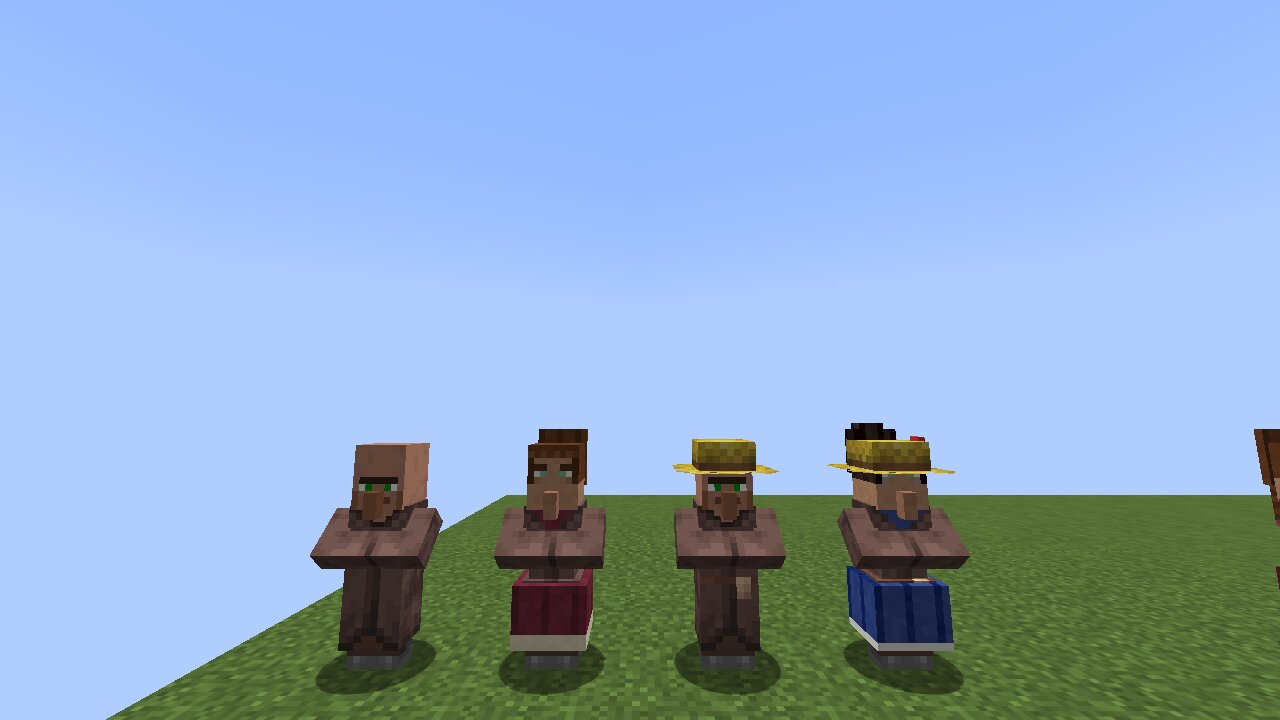
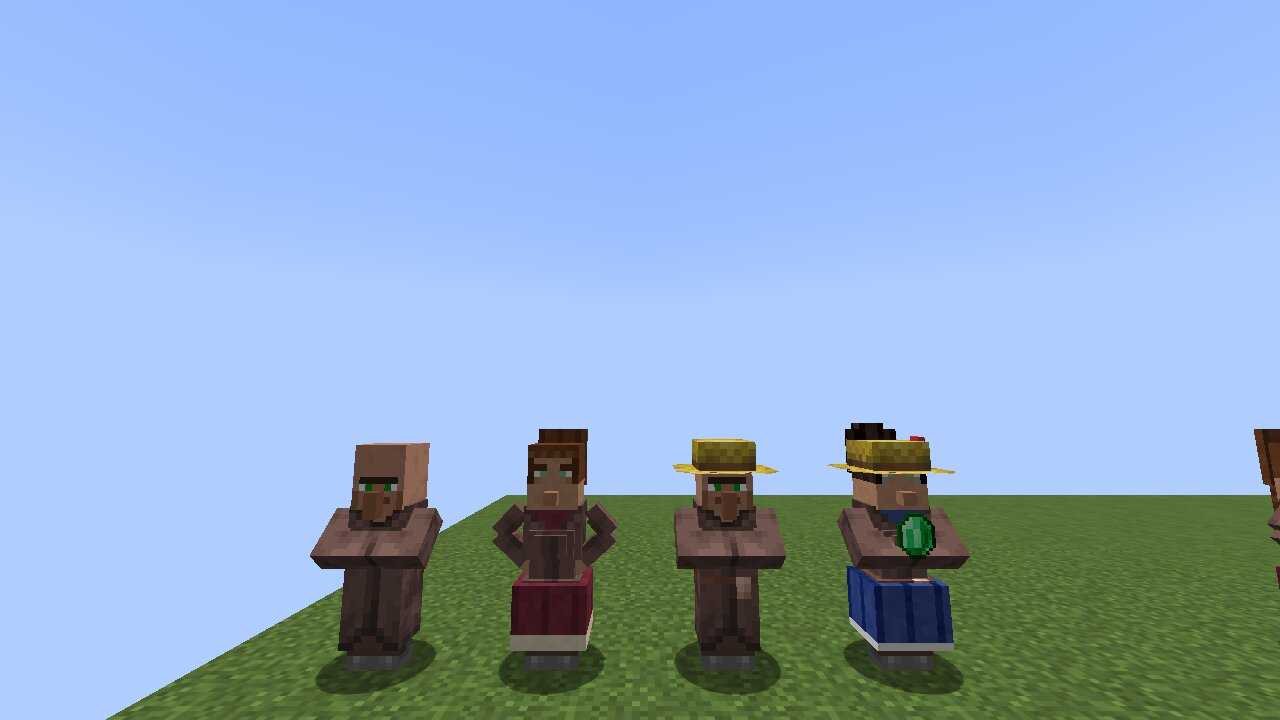
feat: hands on hips, bust and shorter nose for villager women
Adult women put their hands on their hips instead of crossing their
arms, get a two-step bust on the robe front and a 2 px nose instead of
the 4 px one. All new parts reuse the texture rows of the vanilla part
they replace, so base skin, biome and profession clothes keep fitting.
While a woman holds an item she crosses her arms so the item still sits
in them.

Claude-Session: https://claude.ai/code/session_01EiGtYFxobCFbXvBrcDqVrL

Changed region(s): [[0.375, 0.7028, 0.5, 0.7944], [0.6875, 0.7028, 0.75, 0.7944], [0.9688, 0.7028, 1.0, 0.7639]]

diff --git a/src/client/java/net/frank/mc3ver/client/VillagerWomanFigure.java b/src/client/java/net/frank/mc3ver/client/VillagerWomanFigure.java
@@ -8,16 +8,23 @@ import net.minecraft.client.model.geom.builders.PartDefinition;
 import net.minecraft.client.renderer.entity.state.VillagerRenderState;
 
 /**
- * Figur der Bewohnerin im Vanilla-Villagermodell: schmale Taille, darunter setzt der Rock als Hüfte an. Körper und
- * Gewand (jacket) sind gerade Quader; für Bewohnerinnen blendet skipDraw sie aus und die Figur-Teile darunter
- * übernehmen. Die Teile liegen auf denselben Texturzeilen wie Körper und Gewand, damit Grundskin, Biom- und
- * Berufskleidung weiter passen.
+ * Figur der Bewohnerin im Vanilla-Villagermodell. Körper und Gewand (jacket) sind gerade Quader; für erwachsene
+ * Bewohnerinnen blendet skipDraw sie aus und Figur-Teile darunter übernehmen: schmale Taille, Brust, darunter setzt
+ * der Rock aus VillagerWomanModel als Hüfte an. Dazu Hände in die Hüften statt verschränkter Arme und eine kürzere
+ * Nase. Alle Teile liegen auf denselben Texturzeilen wie das Vanilla-Teil, damit Grundskin, Biom- und Berufskleidung
+ * weiter passen.
  */
 public final class VillagerWomanFigure {
 
     static final String FIGURE = "mc3ver_woman_figure";
+    static final String BUST = "mc3ver_woman_bust";
+    static final String HIP_ARMS = "mc3ver_woman_hip_arms";
+    static final String NOSE = "mc3ver_woman_nose";
     private static final String BODY = "body";
     private static final String JACKET = "jacket";
+    private static final String ARMS = "arms";
+    private static final String HEAD = "head";
+    private static final String VANILLA_NOSE = "nose";
 
     private VillagerWomanFigure() {}
 
@@ -35,30 +42,77 @@ public final class VillagerWomanFigure {
                         .texOffs(16, 31)
                         .addBox(-4.0f, 11.0f, -3.0f, 8.0f, 1.0f, 6.0f),
                 PartPose.ZERO);
-        // Gewand: texOffs(0,38), 8x20x6 mit 0.5 Aufschlag. Oben und unten exakt, dazwischen die Taille.
-        // Die Hüfte bildet der Rock aus VillagerWomanModel
-        body.getChild(JACKET)
+        // Gewand: texOffs(0,38), 8x20x6 mit 0.5 Aufschlag. Oben und unten exakt, dazwischen die Taille
+        PartDefinition jacket = body.getChild(JACKET);
+        jacket.addOrReplaceChild(
+                FIGURE,
+                CubeListBuilder.create()
+                        .texOffs(0, 38)
+                        .addBox(-4.0f, 0.0f, -3.0f, 8.0f, 7.0f, 6.0f, new CubeDeformation(0.5f))
+                        .texOffs(2, 46)
+                        .addBox(-3.0f, 7.0f, -2.5f, 6.0f, 4.0f, 5.0f, new CubeDeformation(0.5f))
+                        .texOffs(0, 49)
+                        .addBox(-4.0f, 11.0f, -3.0f, 8.0f, 9.0f, 6.0f, new CubeDeformation(0.5f)),
+                PartPose.ZERO);
+        // Brust: zwei Stufen auf der Gewand-Vorderseite (Zeilen 47..50), damit Berufskleidung mitgeht
+        jacket.addOrReplaceChild(
+                BUST,
+                CubeListBuilder.create()
+                        .texOffs(6, 46)
+                        .addBox(-3.0f, 3.5f, -4.0f, 6.0f, 3.0f, 1.0f, new CubeDeformation(0.5f))
+                        .texOffs(7, 47)
+                        .addBox(-2.0f, 4.0f, -5.0f, 4.0f, 2.0f, 1.0f, new CubeDeformation(0.5f)),
+                PartPose.ZERO);
+        addHipArms(root);
+        // Nase wie VillagerModel (texOffs(24,0), 2x4x2 ab y -3), aber nur 2 Pixel lang: obere Zeilen derselben Textur
+        root.getChild(HEAD)
                 .addOrReplaceChild(
-                        FIGURE,
-                        CubeListBuilder.create()
-                                .texOffs(0, 38)
-                                .addBox(-4.0f, 0.0f, -3.0f, 8.0f, 7.0f, 6.0f, new CubeDeformation(0.5f))
-                                .texOffs(2, 46)
-                                .addBox(-3.0f, 7.0f, -2.5f, 6.0f, 4.0f, 5.0f, new CubeDeformation(0.5f))
-                                .texOffs(0, 49)
-                                .addBox(-4.0f, 11.0f, -3.0f, 8.0f, 9.0f, 6.0f, new CubeDeformation(0.5f)),
-                        PartPose.ZERO);
+                        NOSE,
+                        CubeListBuilder.create().texOffs(24, 0).addBox(-1.0f, -1.0f, -6.0f, 2.0f, 2.0f, 2.0f),
+                        PartPose.offset(0.0f, -2.0f, 0.0f));
     }
 
-    /** Schaltet zwischen geradem Körper und Figur um; jedes setupAnim, weil ein Modell alle Dorfbewohner zeichnet. */
+    // Hände in die Hüften: Oberarm schräg nach außen, Unterarm zurück zur Taille. Ärmel aus dem Arm-Bereich
+    // texOffs(44,22), 3 statt 4 dick; Hände aus der Haut der Kopfseite (Zeilen 14..17)
+    private static void addHipArms(PartDefinition root) {
+        PartDefinition arms = root.addOrReplaceChild(HIP_ARMS, CubeListBuilder.create(), PartPose.ZERO);
+        for (int side : new int[] {1, -1}) {
+            PartDefinition upper = arms.addOrReplaceChild(
+                    side > 0 ? "left" : "right",
+                    CubeListBuilder.create()
+                            .texOffs(44, 22)
+                            .mirror(side < 0)
+                            .addBox(-1.5f, 0.0f, -1.5f, 3.0f, 5.0f, 3.0f),
+                    PartPose.offsetAndRotation(5.5f * side, 0.5f, 0.0f, 0.0f, 0.0f, -0.75f * side));
+            upper.addOrReplaceChild(
+                    "forearm",
+                    CubeListBuilder.create()
+                            .texOffs(44, 22)
+                            .mirror(side < 0)
+                            .addBox(-1.5f, 0.0f, -1.5f, 3.0f, 6.0f, 3.0f)
+                            .texOffs(0, 12)
+                            .addBox(-1.5f, 6.0f, -1.5f, 3.0f, 2.0f, 3.0f),
+                    PartPose.offsetAndRotation(0.0f, 5.0f, 0.0f, 0.0f, 0.0f, 1.6f * side));
+        }
+    }
+
+    /** Schaltet zwischen Vanilla und Figur um; jedes setupAnim, weil ein Modell alle Dorfbewohner zeichnet. */
     public static void apply(ModelPart root, VillagerRenderState state) {
         ModelPart body = root.getChild(BODY);
         if (!body.hasChild(FIGURE)) return;
         ModelPart jacket = body.getChild(JACKET);
+        ModelPart head = root.getChild(HEAD);
         boolean figure = !state.isBaby && VillagerWomanClient.isFemale(state);
+        // Ware beim Handeln liegt in den verschränkten Armen (CrossedArmsItemLayer), dann bleiben die stehen
+        boolean hipArms = figure && state.heldItem.isEmpty();
         body.skipDraw = figure;
         jacket.skipDraw = figure;
         body.getChild(FIGURE).visible = figure;
         jacket.getChild(FIGURE).visible = figure;
+        jacket.getChild(BUST).visible = figure;
+        head.getChild(VANILLA_NOSE).visible = !figure;
+        head.getChild(NOSE).visible = figure;
+        root.getChild(ARMS).visible = !hipArms;
+        root.getChild(HIP_ARMS).visible = hipArms;
     }
 }

diff --git a/src/gametest/java/net/frank/mc3ver/client/VillagerWomanFigureClientGameTest.java b/src/gametest/java/net/frank/mc3ver/client/VillagerWomanFigureClientGameTest.java
@@ -8,7 +8,8 @@ import net.minecraft.client.model.geom.ModelPart;
 import net.minecraft.client.model.npc.VillagerModel;
 import net.minecraft.client.renderer.entity.state.VillagerRenderState;
 
-// Erwachsene Bewohnerinnen zeichnen die Figur mit Taille statt der geraden Quader, Bewohner und Babys nicht.
+// Erwachsene Bewohnerinnen zeichnen Figur (Taille, Brust, kurze Nase) und Hände in den Hüften, Bewohner und Babys
+// nicht. Hält sie Ware, bleiben die Arme verschränkt.
 // Ein Modell zeichnet alle Dorfbewohner nacheinander, das Umschalten muss deshalb in beide Richtungen greifen.
 public class VillagerWomanFigureClientGameTest implements FabricClientGameTest {
 
@@ -18,31 +19,45 @@ public class VillagerWomanFigureClientGameTest implements FabricClientGameTest {
             for (ModelLayerLocation layer :
                     new ModelLayerLocation[] {ModelLayers.VILLAGER, ModelLayers.VILLAGER_NO_HAT}) {
                 VillagerModel model = new VillagerModel(client.getEntityModels().bakeLayer(layer));
-                ModelPart body = model.root().getChild("body");
-                ModelPart jacket = body.getChild("jacket");
+                ModelPart root = model.root();
 
-                model.setupAnim(state(true, false));
-                check(layer + ": Bewohnerin", body, jacket, true);
-                model.setupAnim(state(false, false));
-                check(layer + ": Bewohner", body, jacket, false);
-                model.setupAnim(state(true, true));
-                check(layer + ": Baby", body, jacket, false);
+                model.setupAnim(state(true, false, false));
+                check(layer + ": Bewohnerin", root, true, true);
+                model.setupAnim(state(false, false, false));
+                check(layer + ": Bewohner", root, false, false);
+                model.setupAnim(state(true, true, false));
+                check(layer + ": Baby", root, false, false);
+                // Mit Ware in der Hand: Figur bleibt, Arme verschränkt
+                model.setupAnim(state(true, false, true));
+                check(layer + ": Bewohnerin mit Ware", root, true, false);
+                model.setupAnim(state(false, false, true));
+                check(layer + ": Bewohner mit Ware", root, false, false);
             }
         });
     }
 
-    private static VillagerRenderState state(boolean female, boolean baby) {
+    private static VillagerRenderState state(boolean female, boolean baby, boolean holding) {
         VillagerRenderState state = new VillagerRenderState();
         state.setData(VillagerWomanClient.FEMALE, female);
         state.isBaby = baby;
+        if (holding) state.heldItem.newLayer();
         return state;
     }
 
-    private static void check(String label, ModelPart body, ModelPart jacket, boolean figure) {
-        boolean ok = body.skipDraw == figure
+    private static void check(String label, ModelPart root, boolean figure, boolean hipArms) {
+        ModelPart body = root.getChild("body");
+        ModelPart jacket = body.getChild("jacket");
+        ModelPart head = root.getChild("head");
+        boolean figureOk = body.skipDraw == figure
                 && jacket.skipDraw == figure
                 && body.getChild(VillagerWomanFigure.FIGURE).visible == figure
-                && jacket.getChild(VillagerWomanFigure.FIGURE).visible == figure;
-        if (!ok) throw new AssertionError(label + ": Figur erwartet " + figure);
+                && jacket.getChild(VillagerWomanFigure.FIGURE).visible == figure
+                && jacket.getChild(VillagerWomanFigure.BUST).visible == figure
+                && head.getChild("nose").visible != figure
+                && head.getChild(VillagerWomanFigure.NOSE).visible == figure;
+        if (!figureOk) throw new AssertionError(label + ": Figur erwartet " + figure);
+        boolean armsOk = root.getChild("arms").visible != hipArms
+                && root.getChild(VillagerWomanFigure.HIP_ARMS).visible == hipArms;
+        if (!armsOk) throw new AssertionError(label + ": Hände in den Hüften erwartet " + hipArms);
     }
 }

diff --git a/src/gametest/java/net/frank/mc3ver/gametest/VillagerWomanLooksClientGameTest.java b/src/gametest/java/net/frank/mc3ver/gametest/VillagerWomanLooksClientGameTest.java
@@ -6,9 +6,14 @@ import net.fabricmc.fabric.api.client.gametest.v1.context.ClientGameTestContext;
 import net.fabricmc.fabric.api.client.gametest.v1.context.TestSingleplayerContext;
 import net.fabricmc.fabric.api.client.gametest.v1.screenshot.TestScreenshotOptions;
 import net.frank.mc3ver.village.VillagerGenderLogic;
+import net.minecraft.world.entity.Entity;
+import net.minecraft.world.entity.EquipmentSlot;
+import net.minecraft.world.entity.npc.villager.Villager;
+import net.minecraft.world.item.ItemStack;
+import net.minecraft.world.item.Items;
 
 // Alle Aussehen der Bewohnerin nebeneinander, von vorn, schräg von vorn und schräg von hinten, zum Vergleichen.
-// Dazu Figur mit Taille und Hüfte neben einem Bewohner, ohne und mit Beruf.
+// Dazu die Figur neben einem Bewohner: ohne Beruf, mit Beruf, Bäuerin mit Ware (Arme verschränkt).
 // Aufruf: ./gradlew runClientGameTest, Screenshots unter build/run/clientGameTest/screenshots
 public class VillagerWomanLooksClientGameTest implements FabricClientGameTest {
 
@@ -41,6 +46,11 @@ public class VillagerWomanLooksClientGameTest implements FabricClientGameTest {
             summon(X, FIGURES_Z - 0.8, new UUID(10L, 0L), 90, "", game);
             summon(X, FIGURES_Z + 0.8, new UUID(10L, 3L), 90, FARMER, game);
             summon(X, FIGURES_Z + 2.4, new UUID(10L, 4L), 90, FARMER, game);
+            // Bäuerin mit Ware: Arme bleiben verschränkt
+            game.getServer().runOnServer(server -> {
+                Entity farmer = server.overworld().getEntity(new UUID(10L, 4L));
+                ((Villager) farmer).setItemSlot(EquipmentSlot.MAINHAND, new ItemStack(Items.EMERALD));
+            });
             summon(X, PROFILE_Z - 1.0, new UUID(11L, 1L), 0, "", game);
             summon(X, PROFILE_Z + 1.0, new UUID(11L, 0L), 0, "", game);
 

diff --git a/CHANGELOG.md b/CHANGELOG.md
@@ -4,6 +4,11 @@ Alle wichtigen Änderungen am Projekt **WorldExplorerMod (mc-3ver)** werden in d
 
 Das Format basiert auf [Keep a Changelog](https://keepachangelog.com/de/1.0.0/) und das Projekt hält sich an [Semantic Versioning](https://semver.org/lang/de/).
 
+## [0.13.8] - 2026-11-28
+
+### ✨ Neu hinzugefügt
+* **Bewohnerinnen:** Hände in die Hüften gestemmt, eine angedeutete Brust und eine kürzere Nase. Hält eine Bewohnerin Ware, verschränkt sie die Arme wie bisher.
+
 ## [0.13.7] - 2026-11-28
 
 ### ✨ Neu hinzugefügt

diff --git a/CHANGELOG_EN.md b/CHANGELOG_EN.md
@@ -4,6 +4,11 @@ All notable changes to the **WorldExplorerMod (mc-3ver)** project will be docume
 
 The format is based on [Keep a Changelog](https://keepachangelog.com/en/1.0.0/), and this project adheres to [Semantic Versioning](https://semver.org/spec/v2.0.0.html).
 
+## [0.13.8] - 2026-11-28
+
+### ✨ Added
+* **Villager women:** Hands on the hips, a hinted bust and a shorter nose. When a woman holds an item she crosses her arms as before.
+
 ## [0.13.7] - 2026-11-28
 
 ### ✨ Added
